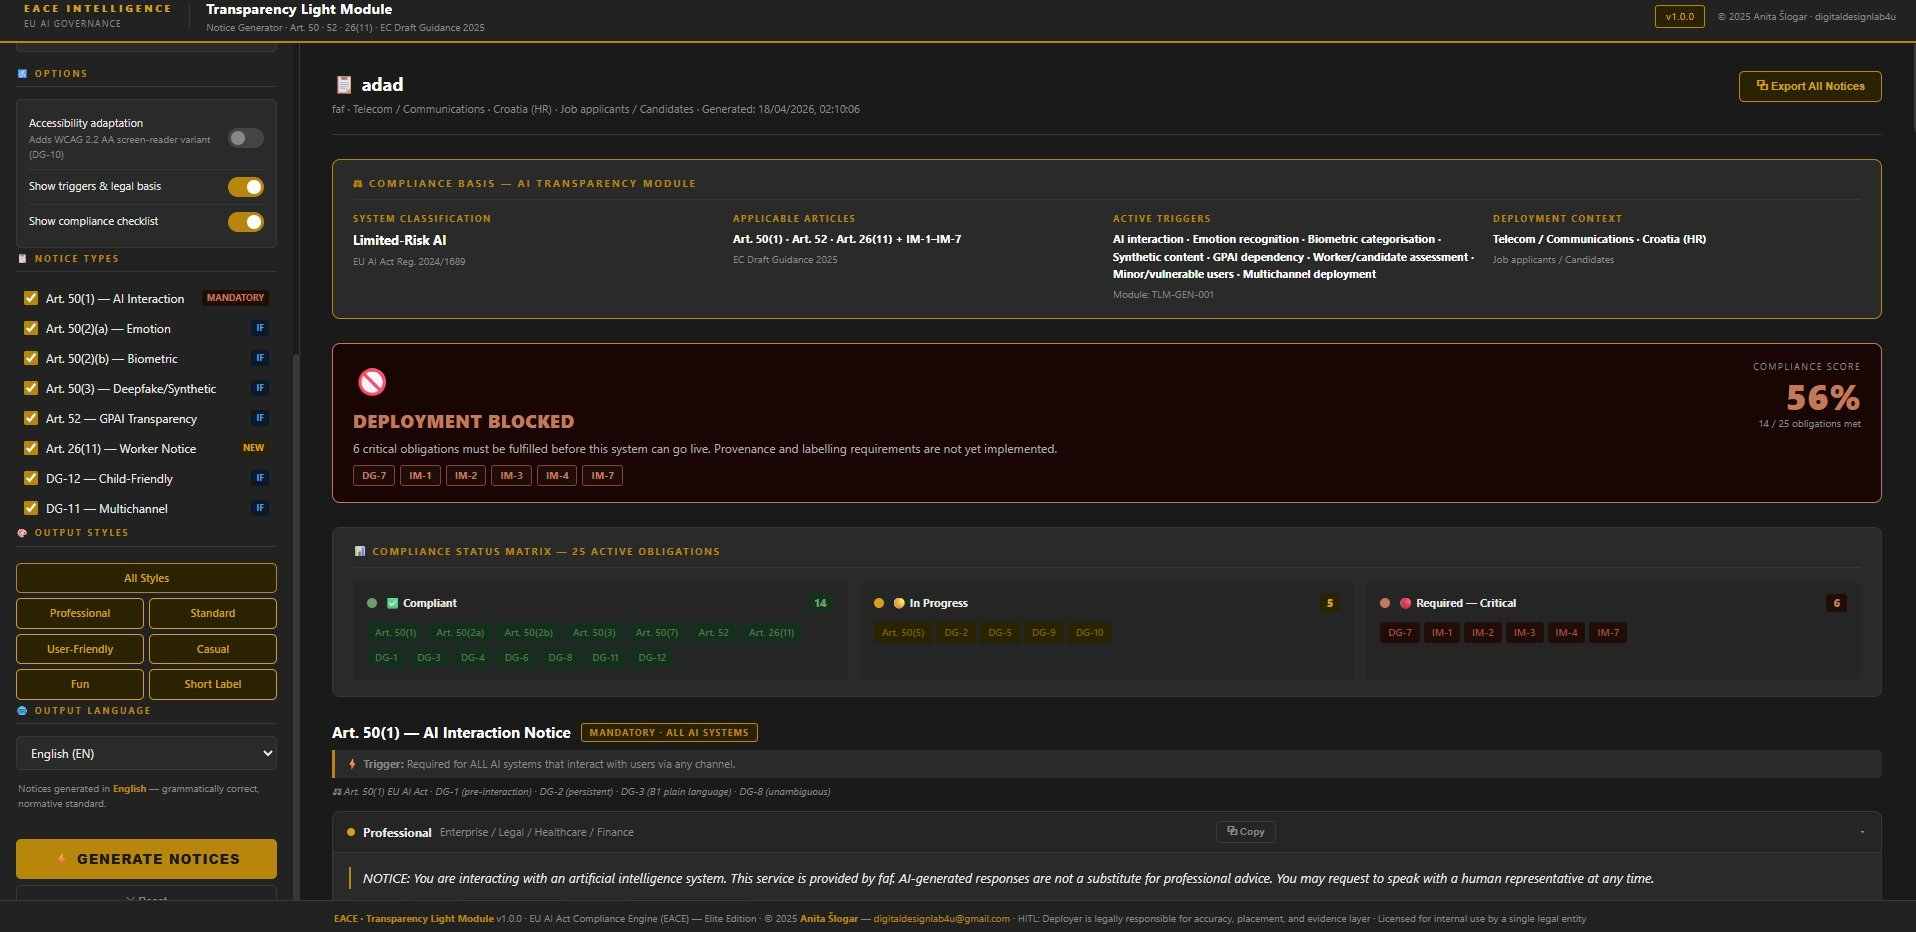
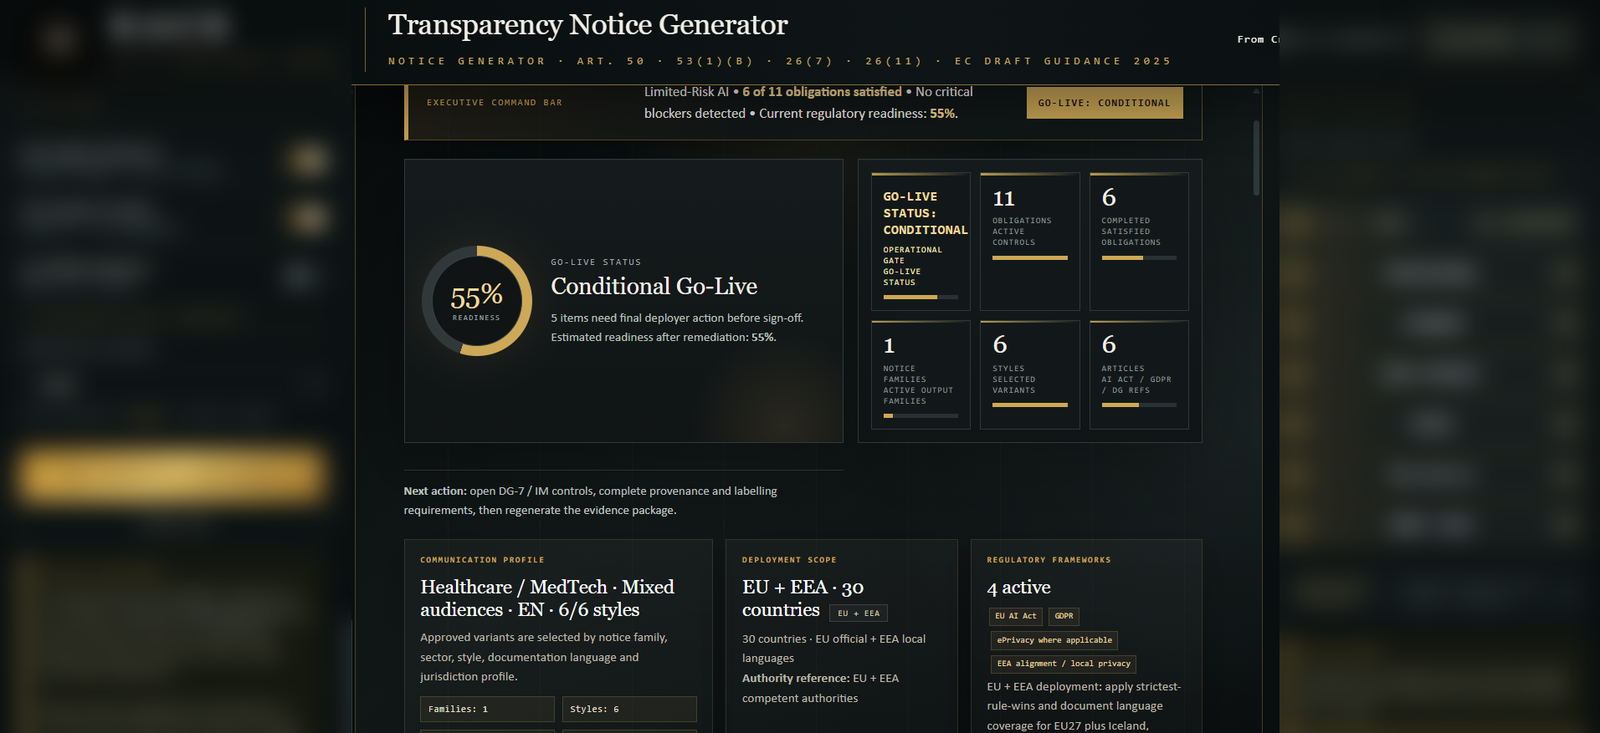
Add files via upload

diff --git a/transparency.html b/transparency.html
@@ -5,7 +5,7 @@
 <meta name="viewport" content="width=device-width, initial-scale=1.0">
 <title>EACE — Transparency Notice Generator | EU AI Act Art. 50</title>
   <meta property="og:title" content="EACE — Transparency Notice Generator | EU AI Act Art. 50">
-  <meta property="og:description" content="Generate EU AI Act compliant transparency notices. Six output languages, eight deployment channels.">
+  <meta property="og:description" content="Generate EU AI Act compliant transparency notices in all 24 official EU languages, with EU+EEA coverage extending to 26. Eight deployment channels.">
   <meta property="og:url" content="https://eace.ai/transparency">
   <meta property="og:image" content="https://eace.ai/og_transparency.jpg">
   <meta property="og:image:width" content="1200">
@@ -15,9 +15,9 @@
   <meta property="og:site_name" content="EACE — EU AI Compliance Engine">
   <meta name="twitter:card" content="summary_large_image">
   <meta name="twitter:title" content="EACE — Transparency Notice Generator | EU AI Act Art. 50">
-  <meta name="twitter:description" content="Generate EU AI Act compliant transparency notices. Six output languages, eight deployment channels.">
+  <meta name="twitter:description" content="Generate EU AI Act compliant transparency notices in all 24 official EU languages, with EU+EEA coverage extending to 26. Eight deployment channels.">
   <meta name="twitter:image" content="https://eace.ai/og_transparency.jpg">
-<meta name="description" content="Generate EU AI Act compliant transparency notices. Six output languages, eight deployment channels. Art. 50, 52, 26(11), GDPR, ePrivacy.">
+<meta name="description" content="Generate EU AI Act compliant transparency notices in all 24 official EU languages, with EU+EEA coverage extending to 26. Eight deployment channels. Art. 50, 52, 26(11), GDPR, ePrivacy.">
 <meta name="keywords" content="EU AI Act transparency notice, Article 50, Article 52, Article 26(11), GPAI transparency, AI interaction notice, deepfake notice, worker transparency, EU AI compliance">
 <meta name="robots" content="index, follow">
 <link rel="preconnect" href="https://fonts.googleapis.com">
@@ -74,6 +74,7 @@ h2 em{font-style:italic;color:var(--gold)}
 .scr-wrap img{width:100%;display:block;opacity:0.88}
 .scr-mask-bottom{position:absolute;bottom:0;left:0;right:0;height:30%;background:linear-gradient(to bottom,transparent,var(--bg2))}
 .scr-mask-left{position:absolute;top:0;left:0;bottom:0;width:22%;background:linear-gradient(to right,var(--bg2),transparent)}
+.scr-mask-right{position:absolute;top:0;right:0;bottom:0;width:20%;background:linear-gradient(to left,var(--bg2),transparent)}
 
 .features-grid{display:grid;grid-template-columns:repeat(3,1fr);gap:12px;margin-bottom:2rem}
 @media(max-width:640px){.features-grid{grid-template-columns:1fr 1fr}}
@@ -189,7 +190,7 @@ footer{border-top:0.5px solid var(--line);padding:2.5rem 0 2rem}
     <span class="atag">ISO/IEC 27001</span>
     <span class="atag">EC Draft Guidance 2025</span>
     <span class="atag">C2PA · IPTC · XMP</span>
-    <span class="atag">6 languages</span>
+    <span class="atag">24 EU languages</span>
     <span class="atag">8 channels</span>
     <span class="atag">Local-first · No backend</span>
   </div>
@@ -200,15 +201,16 @@ footer{border-top:0.5px solid var(--line);padding:2.5rem 0 2rem}
   <h2>Compliance basis. Deployment gate.<br><em>Instant output.</em></h2>
   <p class="sec-intro">The HTML generator displays your system classification, applicable articles, active triggers, and deployment context — then scores your compliance obligations and blocks deployment if critical requirements are unmet.</p>
   <div class="scr-wrap" aria-label="Transparency Light Module interface showing compliance status matrix and deployment gate">
-    <img src="dashboard_transparency.png" alt="Transparency Light Module — compliance basis, deployment gate, and compliance status matrix showing 25 active obligations">
+    <img src="dashboard_transparency.png" alt="Transparency Notice Generator — Executive Command Bar, go-live readiness score and deployment gate interface">
     <div class="scr-mask-left"></div>
+    <div class="scr-mask-right"></div>
     <div class="scr-mask-bottom"></div>
   </div>
   <div class="features-grid">
     <div class="feat"><p class="feat-label">Deployment gate</p><p class="feat-val">Blocked / Conditional / Ready</p><p class="feat-desc">System cannot go live until critical obligations are resolved</p></div>
     <div class="feat"><p class="feat-label">Compliance scoring</p><p class="feat-val">Obligation-by-obligation</p><p class="feat-desc">Compliant · In progress · Required critical — colour-coded matrix</p></div>
     <div class="feat"><p class="feat-label">Output styles</p><p class="feat-val">6 per notice type</p><p class="feat-desc">Professional · Standard · User-friendly · Casual · Fun · Short label</p></div>
-    <div class="feat"><p class="feat-label">Languages</p><p class="feat-val">6 output languages</p><p class="feat-desc">EN · HR · DE · FR · IT · ES — grammatically correct, normative legal terminology</p></div>
+    <div class="feat"><p class="feat-label">Languages</p><p class="feat-val">24 native output languages</p><p class="feat-desc">Every official EU language, generated directly by the module. EU+EEA deployments extend to 26 with Icelandic and Norwegian.</p></div>
     <div class="feat"><p class="feat-label">Channels</p><p class="feat-val">8 deployment channels</p><p class="feat-desc">Web · Mobile · Kiosk · SMS · IVR · Email · Push · Physical</p></div>
     <div class="feat"><p class="feat-label">Privacy</p><p class="feat-val">Local-first</p><p class="feat-desc">No backend, no API keys, no data transmitted — all processing in-browser</p></div>
   </div>

diff --git a/index.html b/index.html
@@ -211,6 +211,7 @@ h2 em{font-style:italic;color:var(--gold)}
 .scr-wrap img{width:100%;display:block;opacity:0.9}
 .scr-mask-bottom{position:absolute;bottom:0;left:0;right:0;height:45%;background:linear-gradient(to bottom,transparent,var(--bg2))}
 .scr-mask-left{position:absolute;top:0;left:0;bottom:0;width:22%;background:linear-gradient(to right,var(--bg2),transparent)}
+.scr-mask-right{position:absolute;top:0;right:0;bottom:0;width:20%;background:linear-gradient(to left,var(--bg2),transparent)}
 .scr-caption{font-family:var(--mono);font-size:9.5px;color:var(--faint);padding:8px 12px;border-top:0.5px solid var(--line);letter-spacing:0.04em;background:var(--bg2)}
 .chef-visual-pair{display:grid;grid-template-columns:1fr 1fr;gap:12px;margin:2.5rem 0}
 @media(max-width:600px){.chef-visual-pair{grid-template-columns:1fr}}
@@ -942,11 +943,12 @@ button:focus-visible,a:focus-visible,[role="button"]:focus-visible{outline:2px s
         Transparency Notice Generator
       </h3>
       <div class="scr-wrap" aria-label="Transparency Notice Generator — compliance basis and deployment gate interface">
-        <img src="dashboard_transparency.png" alt="Transparency Light Module — compliance status matrix and deployment gate showing 25 active obligations">
+        <img src="dashboard_transparency.png" alt="Transparency Notice Generator — Executive Command Bar, go-live readiness score and deployment gate interface">
         <div class="scr-mask-left"></div>
+        <div class="scr-mask-right"></div>
         <div class="scr-mask-bottom"></div>
       </div>
-      <p>Generate EU AI Act-compliant transparency notices for any deployment context. Runs entirely in the browser — no backend, no API keys, no data transmission of any kind. Six output languages. Eight deployment channels. Deployment gate with compliance scoring.</p>
+      <p>Generate EU AI Act-compliant transparency notices for any deployment context. Runs entirely in the browser — no backend, no API keys, no data transmission of any kind. 24 native output languages — every official EU language. EU+EEA deployments extend to 26. Eight deployment channels. Deployment gate with compliance scoring.</p>
       <div class="mod-files" style="margin-top:0.85rem">
         <span class="mf">HTML generator</span>
         <span class="mf">DOCX template</span>

diff --git a/eace-style.css b/eace-style.css
@@ -292,6 +292,7 @@ nav.scrolled{background:rgba(12,12,10,0.97);backdrop-filter:blur(10px);-webkit-b
 .scr-wrap img{width:100%;display:block;opacity:0.88}
 .scr-mask-bottom{position:absolute;bottom:0;left:0;right:0;height:35%;background:linear-gradient(to bottom,transparent,var(--bg2))}
 .scr-mask-left{position:absolute;top:0;left:0;bottom:0;width:22%;background:linear-gradient(to right,var(--bg2),transparent)}
+.scr-mask-right{position:absolute;top:0;right:0;bottom:0;width:20%;background:linear-gradient(to left,var(--bg2),transparent)}
 
 /* Chef visual pair */
 .chef-visual-pair{display:grid;grid-template-columns:1fr 1fr;gap:12px;margin:2rem 0}
